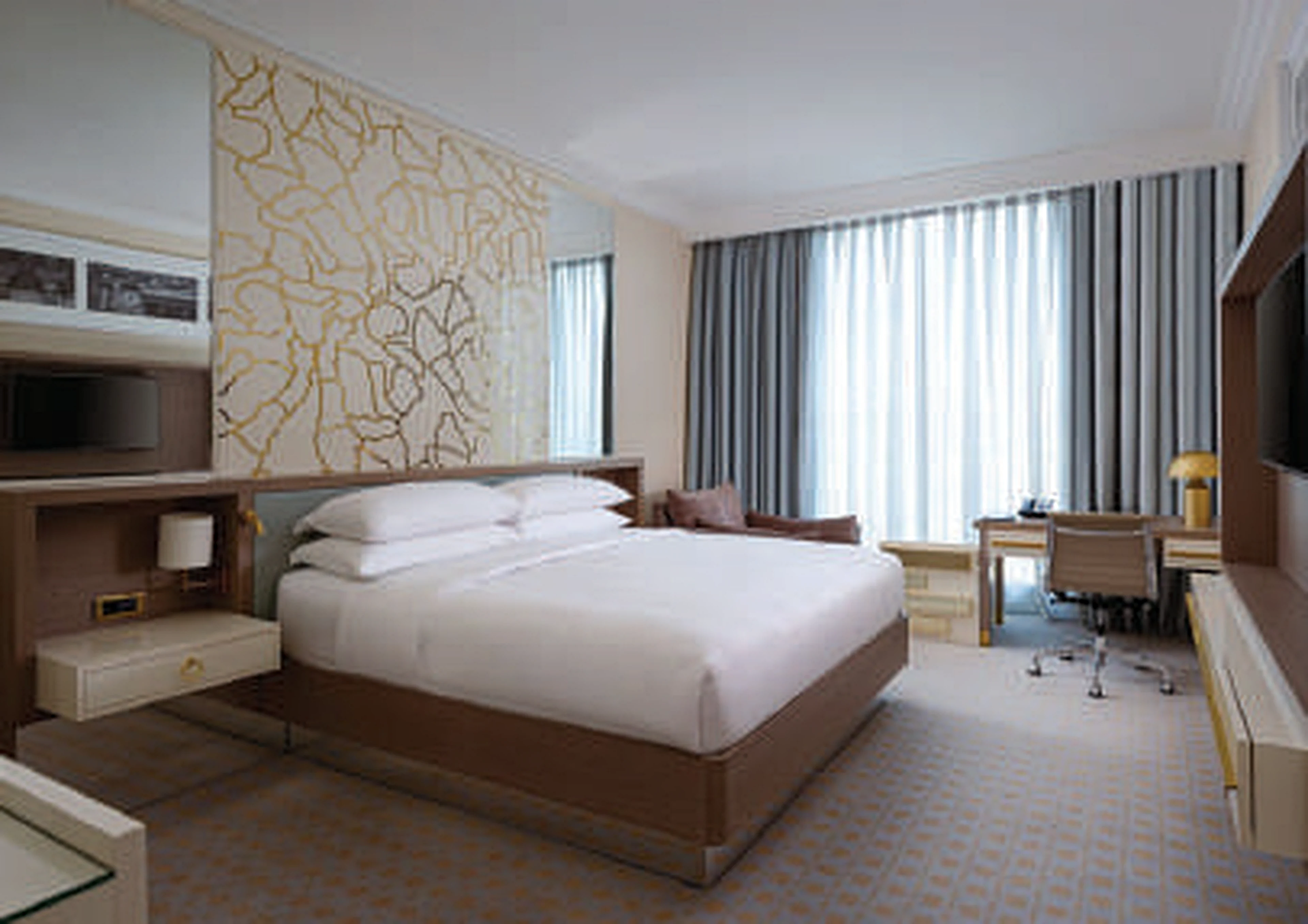
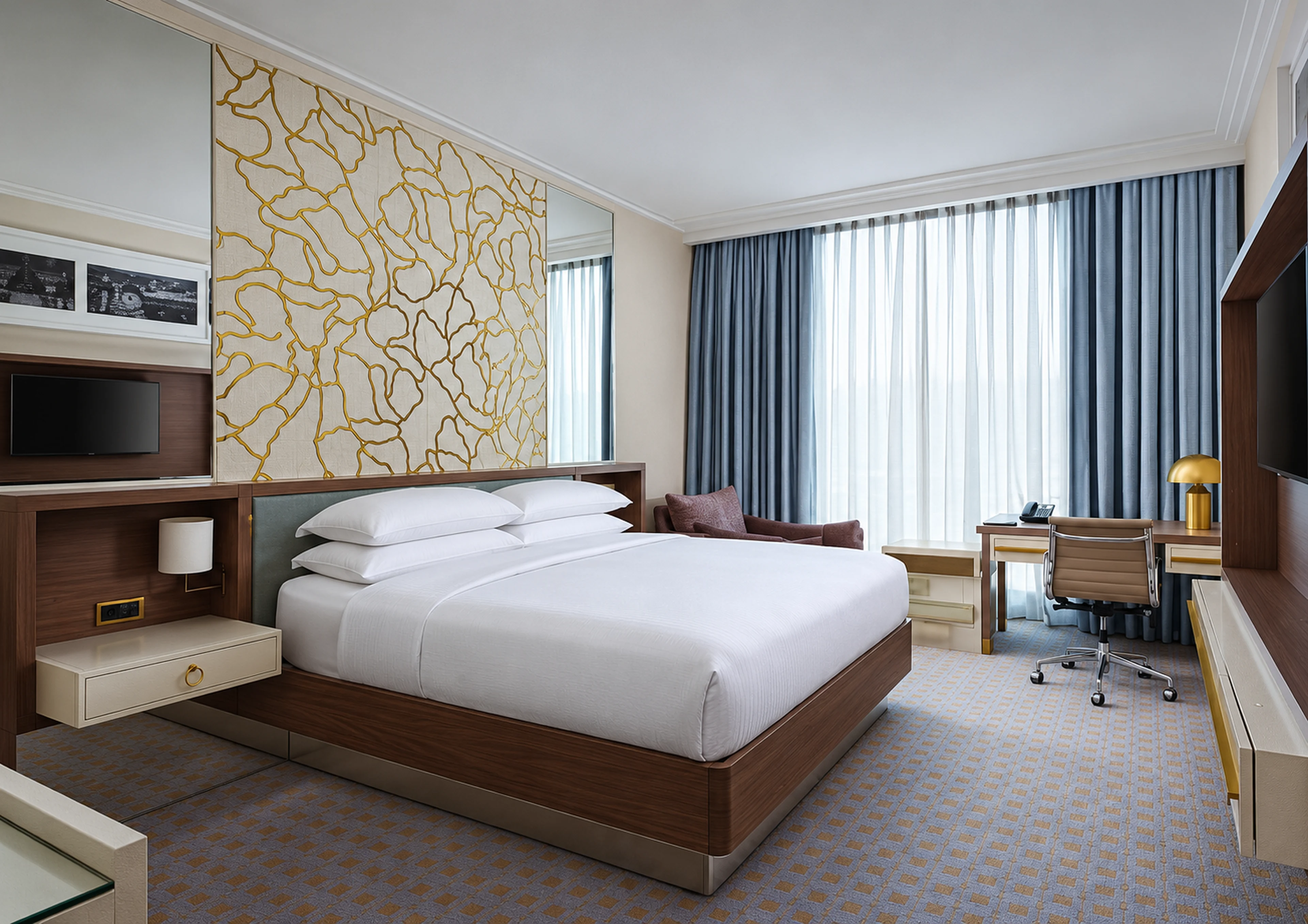
Polish homepage atelier and restore featured project images

diff --git a/tekstil-studio/index.html b/tekstil-studio/index.html
@@ -9,7 +9,7 @@
   <link rel="icon" href="../assets/logo.png">
   <link rel="stylesheet" href="https://fonts.googleapis.com/css2?family=Manrope:wght@400..700&amp;family=Newsreader:opsz,wght@6..72,300..600&amp;display=swap">
   <link rel="stylesheet" href="site.css?v=5">
-  <link rel="stylesheet" href="edition.css?v=7">
+  <link rel="stylesheet" href="edition.css?v=8">
   <link rel="canonical" href="https://altohausgerate-coder.github.io/sarvagelli/tekstil-studio/">
   <meta property="og:title" content="Tekstil studiyası | Sarvagelli">
   <meta property="og:description" content="1979-dan pərdə, jalüz və interyer tekstili. Sarvagelli-nin məhsulları və layihə portfeli.">
@@ -50,20 +50,20 @@
           <figcaption><span>Marriott Hotel Boulevard</span><span>Bakı · Eksteryer</span></figcaption>
         </figure>
         <figure class="project-frame">
-          <img src="media/ana-sehife/marriott-boulevard-interior-960.webp" srcset="media/ana-sehife/marriott-boulevard-interior-960.webp 960w, media/ana-sehife/marriott-boulevard-interior-1920.webp 1920w, media/ana-sehife/marriott-boulevard-interior-3840.webp 3840w" sizes="(max-width: 760px) calc(100vw - 40px), 76vw" width="960" height="678" loading="lazy" decoding="async" alt="Marriott Hotel Boulevard layihəsinin interyer görünüşü">
-          <figcaption><span>Marriott Hotel Boulevard</span><span>Bakı · İnteryer</span></figcaption>
+          <img src="media/ana-sehife/marriott-boulevard-interior-960.webp?v=2" srcset="media/ana-sehife/marriott-boulevard-interior-960.webp?v=2 960w, media/ana-sehife/marriott-boulevard-interior-1920.webp?v=2 1920w, media/ana-sehife/marriott-boulevard-interior-3840.webp?v=2 3840w" sizes="(max-width: 760px) calc(100vw - 40px), 76vw" width="960" height="678" loading="lazy" decoding="async" alt="Marriott Hotel Boulevard layihəsinin interyer görünüşü">
+          <figcaption><span>Marriott Hotel Boulevard</span><span>Bakı · İnteryer · Bərpa edilmiş görüntü</span></figcaption>
         </figure>
         <figure class="project-frame">
           <img src="media/ana-sehife/hotel-perdeleri-960.webp" srcset="media/ana-sehife/hotel-perdeleri-960.webp 960w, media/ana-sehife/hotel-perdeleri-1920.webp 1920w, media/ana-sehife/hotel-perdeleri-3840.webp 3840w" sizes="(max-width: 760px) calc(100vw - 40px), 89vw" width="960" height="640" loading="lazy" decoding="async" alt="Gün işığını süzən tül və qalın hotel pərdələri">
           <figcaption><span>Hotel pərdələri</span><span>Konsept vizualı</span></figcaption>
         </figure>
         <figure class="project-frame">
-          <img src="media/ana-sehife/sea-breeze-grand-hotel-960.webp" srcset="media/ana-sehife/sea-breeze-grand-hotel-960.webp 960w, media/ana-sehife/sea-breeze-grand-hotel-1920.webp 1920w, media/ana-sehife/sea-breeze-grand-hotel-3840.webp 3840w" sizes="(max-width: 760px) calc(100vw - 40px), 76vw" width="960" height="678" loading="lazy" decoding="async" alt="Sea Breeze Grand Hotel binasının xarici görünüşü">
-          <figcaption><span>Sea Breeze Grand Hotel</span><span>Nardaran · Eksteryer</span></figcaption>
+          <img src="media/ana-sehife/sea-breeze-grand-hotel-960.webp?v=2" srcset="media/ana-sehife/sea-breeze-grand-hotel-960.webp?v=2 960w, media/ana-sehife/sea-breeze-grand-hotel-1920.webp?v=2 1920w, media/ana-sehife/sea-breeze-grand-hotel-3840.webp?v=2 3840w" sizes="(max-width: 760px) calc(100vw - 40px), 76vw" width="960" height="678" loading="lazy" decoding="async" alt="Sea Breeze Grand Hotel binasının xarici görünüşü">
+          <figcaption><span>Sea Breeze Grand Hotel</span><span>Nardaran · Eksteryer · Bərpa edilmiş görüntü</span></figcaption>
         </figure>
         <figure class="project-frame">
-          <img src="media/ana-sehife/sea-breeze-grand-interior-960.webp" srcset="media/ana-sehife/sea-breeze-grand-interior-960.webp 960w, media/ana-sehife/sea-breeze-grand-interior-1920.webp 1920w, media/ana-sehife/sea-breeze-grand-interior-3840.webp 3840w" sizes="(max-width: 760px) calc(100vw - 40px), 89vw" width="960" height="678" loading="lazy" decoding="async" alt="Sea Breeze Grand Hotel layihəsinin interyer görünüşü">
-          <figcaption><span>Sea Breeze Grand Hotel</span><span>Nardaran · İnteryer</span></figcaption>
+          <img src="media/ana-sehife/sea-breeze-grand-interior-960.webp?v=2" srcset="media/ana-sehife/sea-breeze-grand-interior-960.webp?v=2 960w, media/ana-sehife/sea-breeze-grand-interior-1920.webp?v=2 1920w, media/ana-sehife/sea-breeze-grand-interior-3840.webp?v=2 3840w" sizes="(max-width: 760px) calc(100vw - 40px), 89vw" width="960" height="678" loading="lazy" decoding="async" alt="Sea Breeze Grand Hotel layihəsinin interyer görünüşü">
+          <figcaption><span>Sea Breeze Grand Hotel</span><span>Nardaran · İnteryer · Bərpa edilmiş görüntü</span></figcaption>
         </figure>
       </div>
     </section>
@@ -74,15 +74,38 @@
 <a class="insight-card reveal" href="yazi-teras-sec.html"><img src="media/teras-kolgelenmesi.webp" alt="Terasda gün işığını yumşaldan ZIP örtüklər" width="1536" height="1024" loading="lazy" decoding="async"><p class="eyebrow">Bələdçi</p><h3>Terasda kölgə və məxfilik</h3></a>
 </div>
     </section>
-    <section class="team-feature reveal">
-      <img src="media/atelye-yaxin.webp" alt="İşıqlı atelyedə kətan parçanın fərdi tikilişi" width="1536" height="1024" loading="lazy" decoding="async">
-      <div><h2>Materialdan tətbiqə.</h2><p>Ölçü, material seçimi, tikiliş və quraşdırma bizim üçün eyni işin mərhələləridir.</p><a class="action" href="komanda.html">Komandamız <span aria-hidden="true">↗</span></a></div>
-    </section>
+    <div class="wrap atelier-wrap">
+      <section class="team-feature reveal" aria-labelledby="atelier-title">
+        <img src="media/ana-sehife/atelye-960.webp" srcset="media/ana-sehife/atelye-960.webp 960w, media/ana-sehife/atelye-1920.webp 1920w" sizes="(max-width: 760px) 90vw, 48vw" alt="İşıqlı atelyedə kətan parçanın fərdi tikilişi" width="960" height="640" loading="lazy" decoding="async">
+        <div>
+          <h2 id="atelier-title">Materialdan tətbiqə</h2>
+          <p>Ölçü götürür, parça seçir, tikir və quraşdırırıq.</p>
+          <a class="action" href="komanda.html">Komandamız <span aria-hidden="true">↗</span></a>
+        </div>
+      </section>
+    </div>
   </main>
-  <footer class="footer">
-    <div><p class="eyebrow">SARVAGELLİ · 1979</p><p class="footer-line">Məkanınıza uyğun<br>tekstil həlləri.</p></div>
-    <div><p>186 Əhməd Rəcəbli küçəsi<br>Black Pearl Plaza, Bakı</p><a href="tel:+994505551787">+994 50 555 17 87</a><br><a href="mailto:info@sarvagelli.com">info@sarvagelli.com</a></div>
-    <nav aria-label="Əlavə keçidlər"><a href="komanda.html">Komanda</a><a href="karyera.html">Karyera</a><a href="tarixce.html">Tarixçə</a><a href="https://www.instagram.com/sarvagelli/">Instagram ↗</a><a href="../mexfilik.html">Məxfilik</a><a href="#content">Yuxarı qayıt ↑</a></nav>
+  <footer class="footer home-footer">
+    <div class="wrap home-footer-grid">
+      <div><p class="eyebrow">SARVAGELLİ · 1979</p><p class="footer-line">Məkanınıza uyğun tekstil həlləri.</p></div>
+      <div>
+        <h2>Əlaqə</h2>
+        <address>186 Əhməd Rəcəbli küçəsi<br>Black Pearl Plaza, Bakı</address>
+        <a href="tel:+994505551787">+994 50 555 17 87</a>
+        <a href="mailto:info@sarvagelli.com">info@sarvagelli.com</a>
+      </div>
+      <div>
+        <h2>Keçidlər</h2>
+        <nav aria-label="Əlavə keçidlər">
+          <a href="komanda.html">Komanda</a><a href="karyera.html">Karyera</a><a href="tarixce.html">Tarixçə</a>
+          <a href="https://www.instagram.com/sarvagelli/">Instagram <span aria-hidden="true">↗</span></a>
+        </nav>
+      </div>
+    </div>
+    <div class="wrap home-footer-bottom">
+      <a href="../mexfilik.html">Məxfilik</a>
+      <a href="#content">Yuxarı qayıt <span aria-hidden="true">↑</span></a>
+    </div>
   </footer>
 </body>
 </html>

diff --git a/tekstil-studio/edition.css b/tekstil-studio/edition.css
@@ -81,6 +81,7 @@
 }
 .project-frame figcaption span:first-child { font: 400 clamp(21px, 3.25vw, 48px)/1.08 var(--serif); }
 .project-frame figcaption span + span { color: var(--muted); font-size: 12px; }
+.project-frame figcaption { align-items: center; }
 .practice-grid, .insight-grid { display: grid; gap: clamp(24px, 4vw, 60px) clamp(18px, 3vw, 46px); }
 .practice-card, .insight-card { display: block; text-decoration: none; }
 .insight-card h3 { margin-block: 13px 3px; font-size: clamp(21px, 2.45vw, 37px); line-height: 1.05; }
@@ -100,6 +101,12 @@
 .team-feature img { height: 100%; min-height: 400px; object-fit: cover; }
 .team-feature > div { padding: clamp(32px, 7vw, 100px) var(--gutter); }
 .team-feature p { margin: 15px 0; color: var(--muted); max-width: 40ch; }
+.atelier-wrap { margin-bottom: clamp(46px, 6vw, 104px); }
+.atelier-wrap .team-feature { grid-template-columns: minmax(0, 1.22fr) minmax(0, 1fr); }
+.atelier-wrap .team-feature img { min-height: 0; aspect-ratio: 3 / 2; }
+.atelier-wrap .team-feature > div { padding: clamp(26px, 4.5vw, 76px); }
+.atelier-wrap h2 { font-size: clamp(30px, 4vw, 68px); }
+.atelier-wrap p { margin: 15px 0 24px; }
 .timeline { list-style: none; padding-bottom: var(--section-gap); }
 .timeline li { display: grid; grid-template-columns: 1fr 1fr; gap: 30px; padding: 30px 0; border-top: 1px solid var(--line); align-items: start; }
 .timeline strong { font: 400 clamp(40px, 8vw, 104px)/1 var(--serif); }
@@ -126,6 +133,16 @@
 }
 .inquiry-form textarea { resize: vertical; }
 .footer { background: #1a1a1a; }
+.home-footer { display: block; padding: clamp(36px, 5.5vw, 80px) 0 0; line-height: 1.6; }
+.home-footer-grid { display: grid; grid-template-columns: 1.35fr 1fr .7fr; gap: 28px 40px; padding-bottom: 36px; }
+.home-footer .footer-line { max-width: 14ch; font-size: clamp(28px, 3vw, 50px); line-height: 1.05; }
+.home-footer h2 { margin-bottom: 9px; font: 650 13px/1.5 var(--sans); }
+.home-footer address { font-style: normal; margin-bottom: 8px; }
+.home-footer-grid a { display: block; width: fit-content; }
+.home-footer a { text-decoration: none; }
+.home-footer a:hover { text-decoration: underline; }
+.home-footer nav { gap: 6px; }
+.home-footer-bottom { display: flex; justify-content: space-between; gap: 24px; border-top: 1px solid #ffffff26; padding-block: 15px; font-size: 13px; }
 
 @media (prefers-reduced-motion: no-preference) {
   .portfolio-hero-media img { animation: portfolio-settle var(--hero-zoom-duration) var(--photo-reveal-ease) both; }
@@ -141,7 +158,7 @@
   .practice-card:hover img { scale: 1.03; }
 }
 @media (max-width: 760px) {
-  :root { --frame-height: 64svh; }
+  :root { --frame-height: min(64svh, calc(78vw + 48px)); }
   .project-frame:nth-child(even) { padding-inline: var(--gutter); }
   .mobile-nav summary { position: relative; z-index: 2; }
   .mobile-nav[open] summary { color: var(--ink); }
@@ -157,10 +174,13 @@
   .insight-grid { grid-template-columns: repeat(2, minmax(0, 1fr)); }
   .practice-grid { grid-template-columns: repeat(2, minmax(0, 1fr)); }
   .practice-card:nth-child(n) { grid-column: auto; margin-top: 0; }
-  .team-feature { grid-template-columns: 1fr; }
+  .team-feature, .atelier-wrap .team-feature { grid-template-columns: 1fr; }
+  .home-footer-grid { grid-template-columns: repeat(2, minmax(0, 1fr)); }
+  .home-footer-grid > :first-child { grid-column: 1 / -1; }
   .team-feature img { min-height: 0; aspect-ratio: 1.4; }
 }
 @media (max-width: 470px) {
   .practice-grid, .insight-grid { grid-template-columns: 1fr; }
+  .project-frame figcaption { align-content: center; align-items: flex-start; flex-direction: column; padding-block: 9px 12px; }
   .timeline li { grid-template-columns: 1fr; gap: 12px; }
 }
